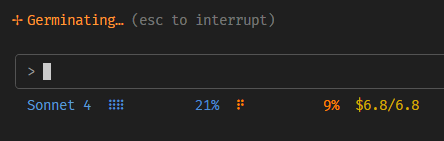
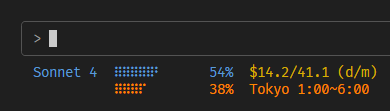
新增5h窗口显示

diff --git a/status-line.py b/status-line.py
@@ -11,6 +11,11 @@ import subprocess
 import shutil
 import io
 from datetime import datetime, timedelta
+try:
+    import pytz
+    PYTZ_AVAILABLE = True
+except ImportError:
+    PYTZ_AVAILABLE = False
 
 # 设置输出编码为UTF-8
 sys.stdout = io.TextIOWrapper(sys.stdout.buffer, encoding='utf-8')
@@ -107,7 +112,7 @@ def get_session_tokens(data):
         
         if not transcript_path:
             debug_log("错误: transcript_path为空")
-            return "\033[0;34m\033[38;5;240m          \033[0m\033[0m \033[0;34m0%\033[0m"
+            return "\033[0;38;2;91;155;214m\033[38;5;240m          \033[0m\033[0m \033[0;38;2;91;155;214m  0%\033[0m"
         
         # 处理transcript文件
         total_tokens = process_transcript(transcript_path)
@@ -121,21 +126,26 @@ def get_session_tokens(data):
             
             progress_bar = PROGRESS_BARS.get(display_percentage, "\033[38;5;240m          \033[0m")
             
-            # 返回蓝色的进度条，百分比显示实际值
-            return f"\033[0;34m{progress_bar}\033[0m \033[0;34m{actual_percentage}%\033[0m"
+            # 返回蓝色的进度条，百分比显示实际值（动态对齐到3位数宽度）
+            percentage_padding = ""
+            if actual_percentage < 10:
+                percentage_padding = "  "  # 两个占位符
+            elif actual_percentage < 100:
+                percentage_padding = " "    # 一个占位符
+            return f"\033[0;38;2;91;155;214m{progress_bar}\033[0m \033[0;38;2;91;155;214m{percentage_padding}{actual_percentage}%\033[0m"
         else:
-            return "\033[0;34m\033[38;5;240m          \033[0m\033[0m \033[0;34m0%\033[0m"
+            return "\033[0;38;2;91;155;214m\033[38;5;240m          \033[0m\033[0m \033[0;38;2;91;155;214m  0%\033[0m"
             
     except Exception as e:
         debug_log(f"发生错误: {e}")
-        return "\033[0;34m\033[38;5;240m          \033[0m\033[0m \033[0;34m0%\033[0m"
+        return "\033[0;38;2;91;155;214m\033[38;5;240m          \033[0m\033[0m \033[0;38;2;91;155;214m  0%\033[0m"
 
 def get_blocks_comparison():
     """获取blocks token比较（橙色进度条）"""
     # 检查ccusage是否可用
     if not shutil.which('ccusage'):
         debug_log("ccusage命令不可用")
-        return "\033[38;5;208m\033[38;5;240m          \033[0m\033[0m \033[38;5;208m0%\033[0m"
+        return "\033[38;5;208m\033[38;5;240m          \033[0m\033[0m \033[38;5;208m  0%\033[0m"
     
     try:
         result = subprocess.run(
@@ -153,7 +163,7 @@ def get_blocks_comparison():
             
             if not blocks:
                 debug_log("没有blocks数据")
-                return "\033[38;5;208m\033[38;5;240m          \033[0m\033[0m \033[38;5;208m0%\033[0m"
+                return "\033[38;5;208m\033[38;5;240m          \033[0m\033[0m \033[38;5;208m  0%\033[0m"
             
             # 找到当前活跃的block
             active_block = None
@@ -169,7 +179,7 @@ def get_blocks_comparison():
             
             if active_block is None:
                 debug_log("没有找到活跃block")
-                return "\033[38;5;208m\033[38;5;240m          \033[0m\033[0m \033[38;5;208m0%\033[0m"
+                return "\033[38;5;208m\033[38;5;240m          \033[0m\033[0m \033[38;5;208m  0%\033[0m"
             
             active_tokens = active_block.get('totalTokens', 0)
             
@@ -184,15 +194,110 @@ def get_blocks_comparison():
             
             progress_bar = PROGRESS_BARS.get(display_percentage, "\033[38;5;240m          \033[0m")
             
-            # 返回橙色的进度条，百分比显示实际值
-            return f"\033[38;5;208m{progress_bar}\033[0m \033[38;5;208m{actual_percentage}%\033[0m"
+            # 返回橙色的进度条，百分比显示实际值（动态对齐到3位数宽度）
+            percentage_padding = ""
+            if actual_percentage < 10:
+                percentage_padding = "  "  # 两个占位符
+            elif actual_percentage < 100:
+                percentage_padding = " "    # 一个占位符
+            return f"\033[38;5;208m{progress_bar}\033[0m \033[38;5;208m{percentage_padding}{actual_percentage}%\033[0m"
         
         # 默认返回值
-        return "\033[38;5;208m\033[38;5;240m          \033[0m\033[0m \033[38;5;208m0%\033[0m"
+        return "\033[38;5;208m\033[38;5;240m          \033[0m\033[0m \033[38;5;208m  0%\033[0m"
         
     except Exception as e:
         debug_log(f"获取blocks信息时出错: {e}")
-        return "\033[38;5;208m\033[38;5;240m          \033[0m\033[0m \033[38;5;208m0%\033[0m"
+        return "\033[38;5;208m\033[38;5;240m          \033[0m\033[0m \033[38;5;208m  0%\033[0m"
+
+def get_active_block_time_range():
+    """获取活跃block的时间范围，转换为本地时区显示"""
+    # 检查ccusage是否可用
+    if not shutil.which('ccusage'):
+        debug_log("ccusage命令不可用")
+        return "N/A"
+    
+    try:
+        result = subprocess.run(
+            ['ccusage', 'blocks', '--active', '-j'],
+            capture_output=True,
+            text=True,
+            timeout=5,
+            encoding='utf-8',
+            shell=True
+        )
+        
+        if result.returncode == 0:
+            data = json.loads(result.stdout)
+            blocks = data.get('blocks', [])
+            
+            # 找到活跃的block
+            for block in blocks:
+                if block.get('isActive', False):
+                    start_time_str = block.get('startTime')
+                    end_time_str = block.get('endTime')
+                    
+                    if start_time_str and end_time_str:
+                        # 解析UTC时间
+                        start_utc = datetime.fromisoformat(start_time_str.replace('Z', '+00:00'))
+                        end_utc = datetime.fromisoformat(end_time_str.replace('Z', '+00:00'))
+                        
+                        # 自动使用系统本地时区
+                        start_local = start_utc.astimezone()
+                        end_local = end_utc.astimezone()
+                        
+                        # 获取时区显示名称 - 使用UTC偏移量自动识别
+                        try:
+                            # 获取UTC偏移量（单位：秒）
+                            utc_offset = start_local.utcoffset().total_seconds() / 3600
+                            
+                            # 根据UTC偏移量自动识别常见时区
+                            if utc_offset == 9:  # UTC+9
+                                tz_display = 'Tokyo'
+                            elif utc_offset == 8:  # UTC+8
+                                tz_display = 'Beijing'
+                            elif utc_offset == -5:  # UTC-5
+                                tz_display = 'NewYork'
+                            elif utc_offset == -4:  # UTC-4 (EDT)
+                                tz_display = 'NewYork'
+                            elif utc_offset == -8:  # UTC-8
+                                tz_display = 'LosAngeles'
+                            elif utc_offset == -7:  # UTC-7 (PDT)
+                                tz_display = 'LosAngeles'
+                            elif utc_offset == 0:  # UTC+0
+                                tz_display = 'London'
+                            elif utc_offset == 1:  # UTC+1 (CET)
+                                tz_display = 'Berlin'
+                            elif utc_offset == 2:  # UTC+2 (CEST)
+                                tz_display = 'Berlin'
+                            elif utc_offset == 5.5:  # UTC+5.5
+                                tz_display = 'NewDelhi'
+                            elif utc_offset == 10:  # UTC+10
+                                tz_display = 'Sydney'
+                            else:
+                                # 对于其他时区，显示UTC偏移量
+                                if utc_offset >= 0:
+                                    tz_display = f'UTC+{int(utc_offset)}'
+                                else:
+                                    tz_display = f'UTC{int(utc_offset)}'
+                        except:
+                            tz_display = 'Local'
+                        
+                        # 格式化时间显示（去掉小时前导零）
+                        start_formatted = start_local.strftime('%H:%M').lstrip('0') or '0:' + start_local.strftime('%M')
+                        end_formatted = end_local.strftime('%H:%M').lstrip('0') or '0:' + end_local.strftime('%M')
+                        
+                        debug_log(f"时间范围: {tz_display} {start_formatted}-{end_formatted}")
+                        return f"{tz_display} {start_formatted}~{end_formatted}"
+            
+            debug_log("没有找到活跃block")
+            return "N/A"
+        
+        debug_log(f"ccusage命令失败: {result.returncode}")
+        return "N/A"
+        
+    except Exception as e:
+        debug_log(f"获取时间范围时出错: {e}")
+        return "N/A"
 
 def format_cost(cost):
     """格式化费用显示"""
@@ -213,7 +318,7 @@ def get_cost_info():
     # 检查ccusage是否可用
     if not shutil.which('ccusage'):
         debug_log("ccusage命令不可用")
-        return "N/A"
+        return "N/A", "N/A"
     
     try:
         # 获取今日费用
@@ -260,15 +365,11 @@ def get_cost_info():
         
         debug_log(f"费用信息: 今日={daily_formatted}, 本月={monthly_formatted}")
         
-        # 输出格式：$今日/本月
-        if daily_formatted != "N/A":
-            return f"${daily_formatted}/{monthly_formatted}"
-        else:
-            return "N/A"
+        return daily_formatted, monthly_formatted
         
     except Exception as e:
         debug_log(f"获取费用信息时出错: {e}")
-        return "N/A"
+        return "N/A", "N/A"
 
 def main():
     """主函数"""
@@ -298,17 +399,35 @@ def main():
         debug_log(f"橙色进度条: {blocks_comparison}")
         
         # 获取费用信息（黄色）
-        cost = get_cost_info()
-        debug_log(f"费用信息: {cost}")
+        daily_cost, monthly_cost = get_cost_info()
+        debug_log(f"费用信息: 今日={daily_cost}, 本月={monthly_cost}")
+        
+        # 获取活跃block时间范围
+        time_range = get_active_block_time_range()
+        debug_log(f"时间范围: {time_range}")
         
         # 模型名称 - 蓝色
         model_colored = f"\033[0;38;2;91;155;214m{model}\033[0m"
         
         # 费用信息 - 黄色
-        cost_colored = f"\033[0;38;5;178m{cost}\033[0m"
+        cost_info = f"${daily_cost}/{monthly_cost} (d/m)" if daily_cost != "N/A" else "N/A"
+        cost_colored = f"\033[0;38;5;178m{cost_info}\033[0m"
         
-        # 最终输出：模型 + 会话tokens(蓝色) + block比较(橙色) + 费用(黄色)
-        print(f"{model_colored}  {context_tokens}  {blocks_comparison}  {cost_colored}")
+        # 计算模型名称的显示宽度（用于对齐）
+        model_display_width = len(model) + 2  # 模型名称 + 两个空格
+        
+        # 第一行：模型 + 会话tokens(蓝色) + 费用(黄色)
+        first_line = f"{model_colored}  {context_tokens}  {cost_colored}"
+        
+        # 第二行：用不可见字符对齐 + blocks比较(橙色) + 时间范围（橙色）
+        time_colored = f"\033[38;5;208m{time_range}\033[0m"
+        # 使用盲文空格字符来对齐（盲文字符宽度为半角，所以需要乘以2）
+        padding = "\033[0m" + " " * model_display_width
+        second_line = f"{padding}{blocks_comparison}  {time_colored}"
+        
+        # 输出两行
+        print(first_line)
+        print(second_line)
         
     except json.JSONDecodeError as e:
         debug_log(f"JSON解析失败: {e}")

diff --git a/README.md b/README.md
@@ -1,26 +1,31 @@
 # Claude Code 状态栏工具
 
-一个用于 Claude Code 的自定义状态栏工具，显示模型信息、会话token进度、block使用比较和费用统计。
+一个用于 Claude Code 的自定义状态栏工具，显示模型信息、会话token进度、block使用比较、费用统计和时间范围。
 
 > 💡 **灵感来源：** [neo-claude-code-statusline](https://github.com/neorena-dev/neo-claude-code-statusline)
 
 <img width="444" height="141" alt="preview" src="https://github.com/user-attachments/assets/b7ae5ab7-a4aa-4b70-9b0e-17a07190684f" />
 
-
-  
 ## 功能特性
 
-### 状态栏显示
+### 双行状态栏显示
 ```
-{模型名称} {会话token进度} {block使用比较} {费用信息}
+第一行：{模型名称} {会话token进度} {费用信息}
+第二行：{block使用比较} {活跃时间范围}
 ```
-例：`Sonnet 4  ⠿⠿⠿⠿⠁      42%  ⠿⠁         13%  $4.8/18.5`
+
+**示例显示：**
+```
+Sonnet 4  ⠿⠿⠿⠿⠁       42%  $12.8/40.1(d/m)
+          ⠿⠁          35%  Tokyo 1:00~6:00
+```
 
 ## 特性说明
 
-- 🔵 **会话上下文进度** - 蓝色点阵进度条显示当前会话token使用情况（基于160k限制）
-- 🟠 **Block使用比较** - 橙色点阵进度条显示当前活跃block与历史最大token block的比较
-- 💰 **费用统计** - 黄色显示当日/当月费用
+- 🔵 **会话上下文进度** - 浅蓝色点阵进度条显示当前会话token使用情况（基于160k限制）
+- 🟠 **Block使用比较** - 橙色点阵进度条显示当前活跃block与历史最大token block的比较  
+- 💰 **费用统计** - 黄色显示每日/每月费用，格式：`$日费用/月费用(d/m)`
+- 🕐 **时间范围** - 橙色显示活跃block的时间范围，自动检测并转换为系统本地时区
 
 ## 安装步骤
 
@@ -67,9 +72,15 @@ cp status-line.py ~/.claude/
 ## 显示说明
 
 ### 颜色含义
-- 🔵 **蓝色** - 模型名称和会话token进度
-- 🟠 **橙色** - Block使用比较进度
+- 🔵 **浅蓝色** - 模型名称和会话token进度
+- 🟠 **橙色** - Block使用比较进度和时间范围
 - 🟡 **黄色** - 费用信息
+
+### 显示特点
+- **智能对齐**: 两行进度条完美垂直对齐，百分比动态占位对齐（  0%,  35%, 100%）
+- **时间格式**: 自动去除小时前导零（1:00 而非 01:00）
+- **时区转换**: 自动检测系统时区并转换UTC时间，智能显示友好的地区名称
+- **费用展示**: 紧凑的费用格式，清晰标注日/月
 
 ### Block比较逻辑
 - 通过 `ccusage blocks -j` 获取所有blocks数据
@@ -77,11 +88,40 @@ cp status-line.py ~/.claude/
 - 计算当前活跃block相对于最大block的token使用比例
 - 这样可以直观了解当前session相对于历史最重的session的使用情况
 
+### 时间范围功能
+- 通过 `ccusage blocks --active -j` 获取活跃block的startTime和endTime
+- 自动检测系统时区并转换UTC时间
+- 基于UTC偏移量智能识别时区：
+  - UTC+9 → Tokyo
+  - UTC+8 → Beijing  
+  - UTC-5/-4 → NewYork (自动处理EST/EDT)
+  - UTC-8/-7 → LosAngeles (自动处理PST/PDT)
+  - UTC+0 → London
+  - UTC+1/+2 → Berlin (自动处理CET/CEST)
+  - UTC+5.5 → NewDelhi
+  - UTC+10 → Sydney
+  - 其他时区显示UTC偏移量（如UTC+3, UTC-6）
+- 显示格式：`地区 开始时间~结束时间`（如：Tokyo 1:00~6:00）
+
 ## 系统要求
 
 - Python 3.6+
-- ccusage (npm包)
+- ccusage (npm包)  
 - Claude Code
+
+## 自定义配置
+
+### 添加时区识别
+如果你希望为你的时区添加友好显示名称，可以编辑 `status-line.py` 文件中的UTC偏移量识别逻辑：
+```python
+# 在时区识别部分添加你的时区
+elif utc_offset == 3:  # UTC+3
+    tz_display = 'Moscow'
+elif utc_offset == -3:  # UTC-3
+    tz_display = 'SaoPaulo'
+```
+
+这种方法比名称映射更可靠，因为它基于实际的时间偏移量而不是时区名称字符串。
 
 ## 故障排除
 
@@ -90,3 +130,15 @@ cp status-line.py ~/.claude/
 2. Python路径是否正确
 3. settings.json配置是否正确
 4. 可以修改脚本中的 `DEBUG_TOKENS = True` 来查看调试输出
+
+## 更新日志
+
+### 最新版本特性
+- ✨ 新增双行显示布局，信息更丰富
+- ✨ 新增活跃block时间范围显示
+- ✨ 智能百分比对齐，显示更整洁  
+- ✨ 自动系统时区检测，无需手动配置
+- ✨ 智能时区名称映射，友好显示地区名称
+- ✨ 优化费用显示格式，更加紧凑清晰
+- ✨ 统一颜色方案，视觉效果更佳
+- 🔧 移除pytz依赖，使用Python内置时区功能
